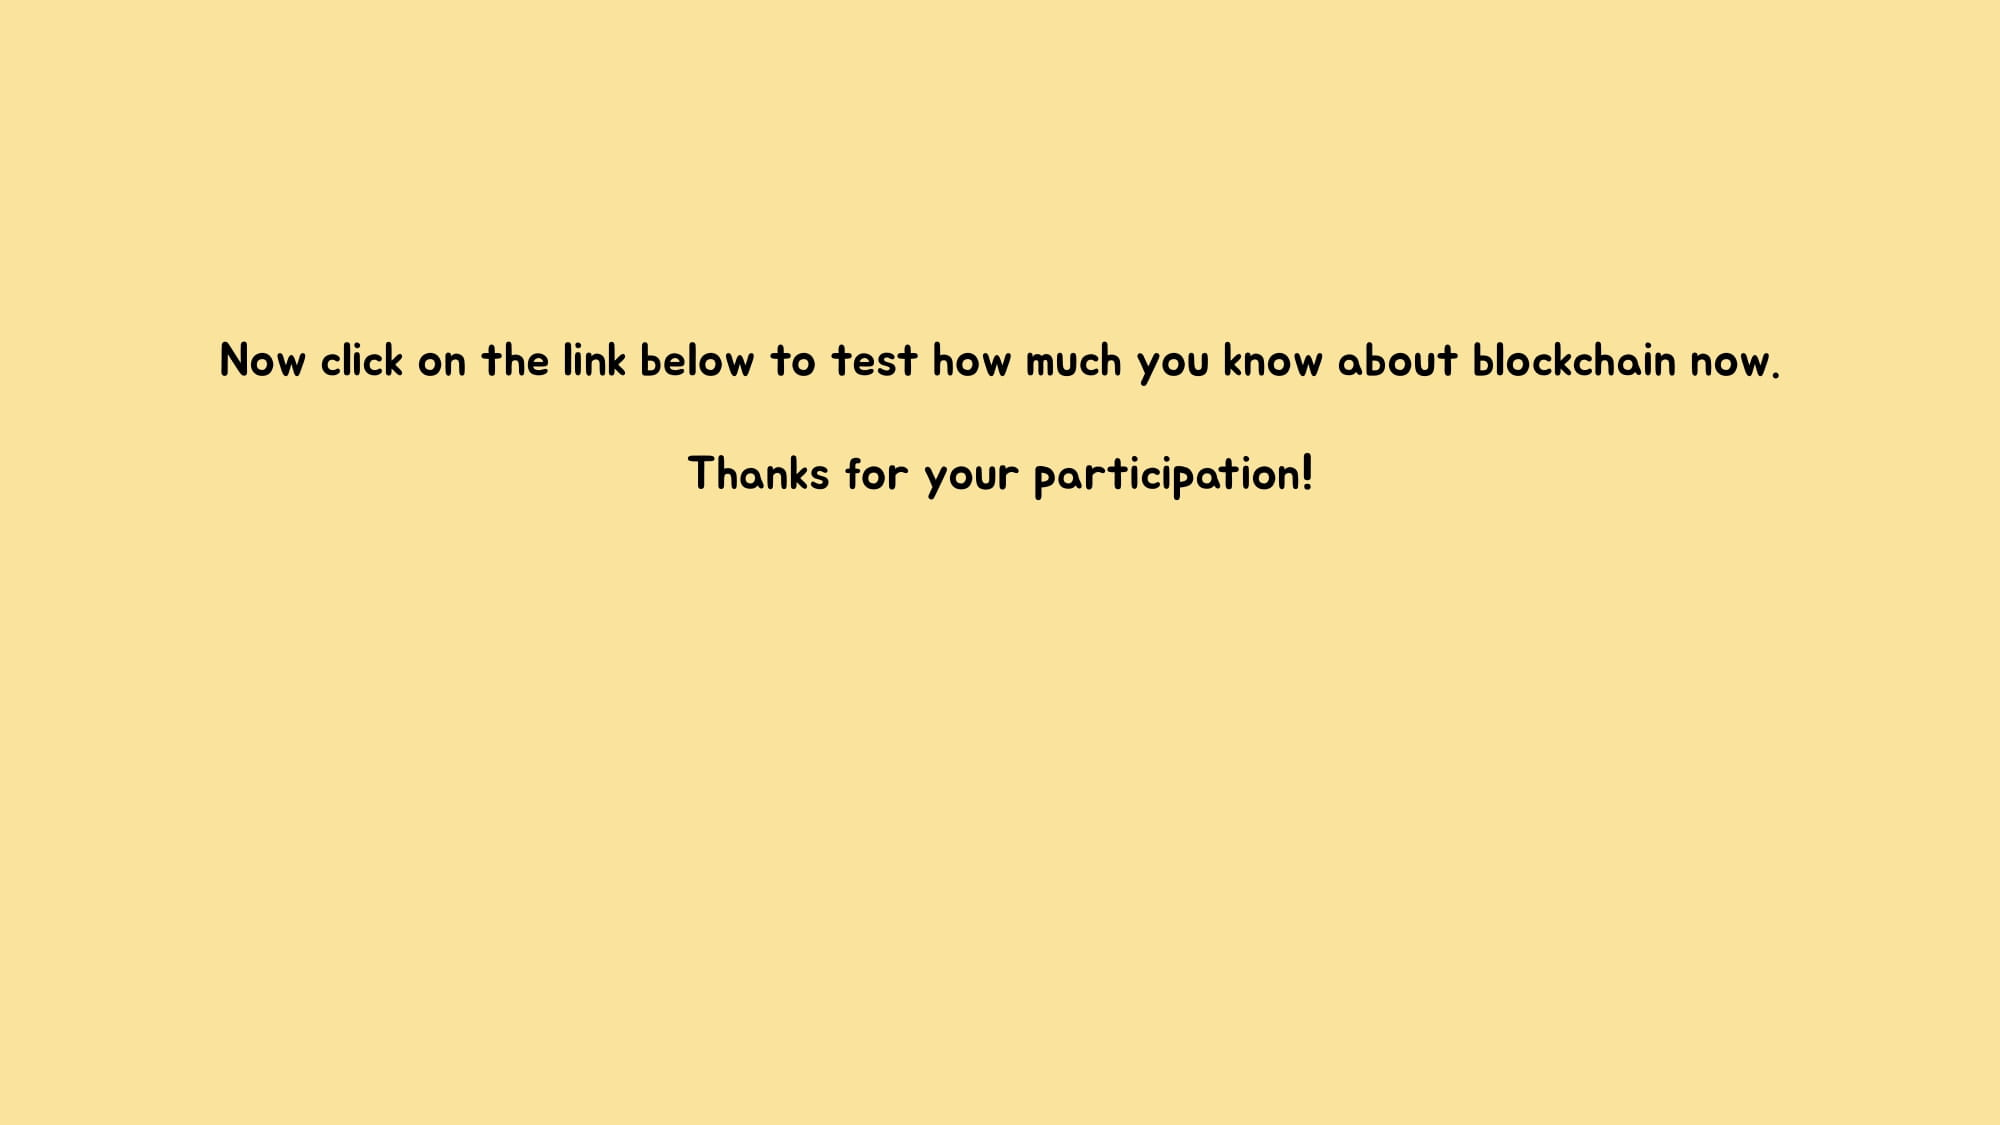
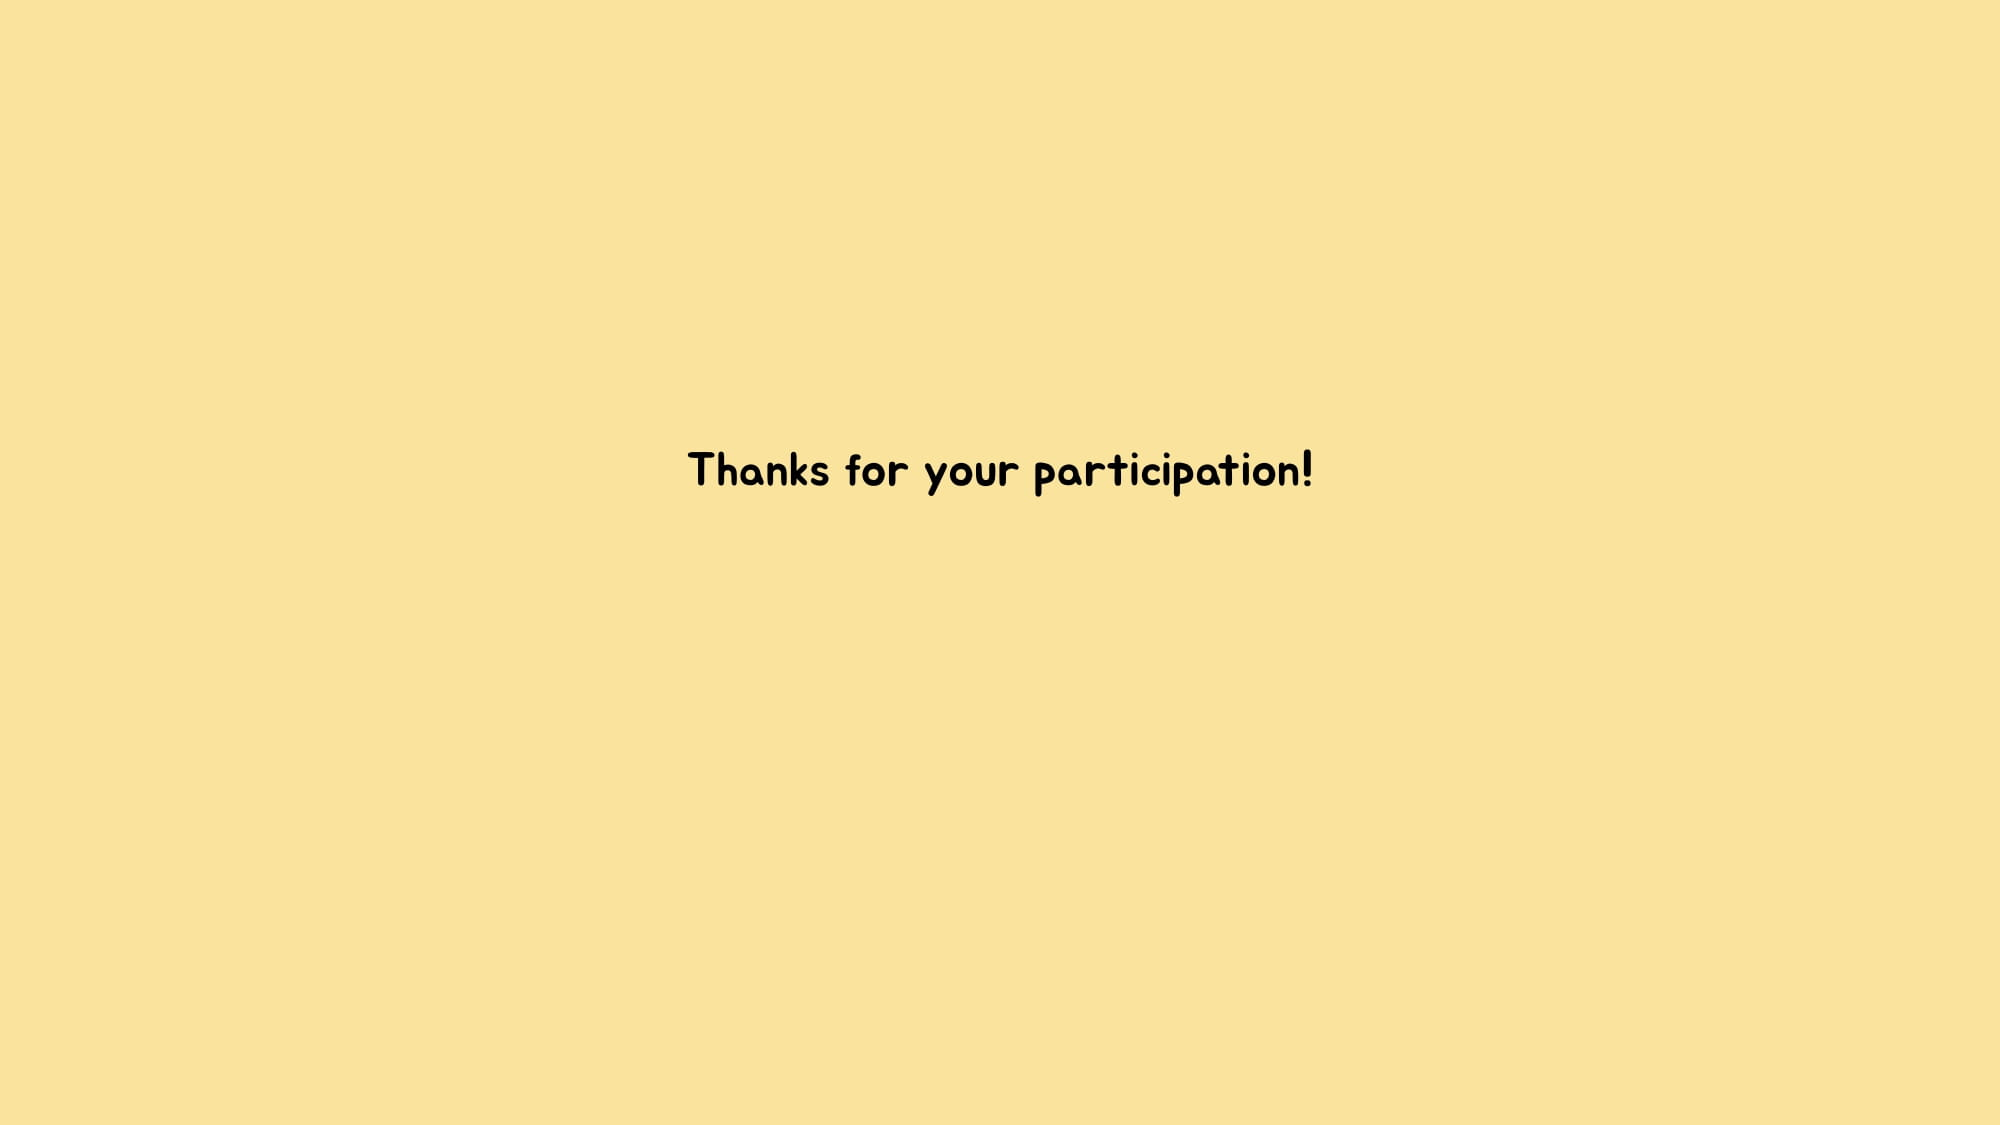
removed questionnaire from the research folder

Changed region(s): [[0.093, 0.3111, 0.899, 0.3422], [0.341, 0.4044, 0.651, 0.4356]]

diff --git a/Blockchain_game_research/mySketch.js b/Blockchain_game_research/mySketch.js
@@ -129,15 +129,15 @@ function Block0()
 	let ppts = [];
 	let counter = 0;
 	let	button = createButton('NEXT >>');
-	let a;
+	// let a;
 	// let controlppt;
 	// if (game == 1){
-  	a = createA('https://docs.google.com/forms/d/1gLLPqJnCHwlx38z6u1mmiZ1DWN3IVaOPc7XH6EaCCmI','link','_blank');
+  	// a = createA('https://docs.google.com/forms/d/1gLLPqJnCHwlx38z6u1mmiZ1DWN3IVaOPc7XH6EaCCmI','link','_blank');
 	// }else{
 	// 	a = createA('https://docs.google.com/forms/d/1UjaswEVrmla6J8FyDxOL8hMqP8XVYSimIUu8ngOBfoo','link','_blank');
 	// 	controlppt = loadImage("src/Assignment.jpg");
 	// }
-	a.hide();
+	// a.hide();
 
 	this.nextPPT = function(){
 		if (counter==19){
@@ -148,12 +148,13 @@ function Block0()
 			// if (game ==0){
 			// 	button.hide();
 			// }
-			a.show();
-      a.style("font-size",'50px')
-      a.position(window.innerWidth/2,window.innerHeight/2);
-      counter++;
-    }else if (counter ==1){
-      a.hide();
+			// a.show();
+      // a.style("font-size",'50px')
+      // a.position(window.innerWidth/2,window.innerHeight/2);
+      // counter++;
+    // }else if (counter ==1){
+    //   a.hide();
+			counter++;
       counter++;
     }else{
 			counter++;
@@ -197,14 +198,14 @@ function Block8()
   let counter = 0;
   let	button = createButton('NEXT >>');
 	button.hide();
-  let a = createA('https://docs.google.com/forms/d/1qt_hIo0TmFL2ECr4_W41jHOBq3B9LbNpnoRPUi1mtrs','link','_blank');
-	a.hide()
+  // let a = createA('https://docs.google.com/forms/d/1qt_hIo0TmFL2ECr4_W41jHOBq3B9LbNpnoRPUi1mtrs','link','_blank');
+	// a.hide()
 
   this.nextPPT = function(){
     if (counter ==2){
-			a.show();
-      a.style("font-size",'50px')
-      a.position(window.innerWidth/2,window.innerHeight/2);
+		// 	a.show();
+    //   a.style("font-size",'50px')
+    //   a.position(window.innerWidth/2,window.innerHeight/2);
       button.hide();
     }
     counter++;
